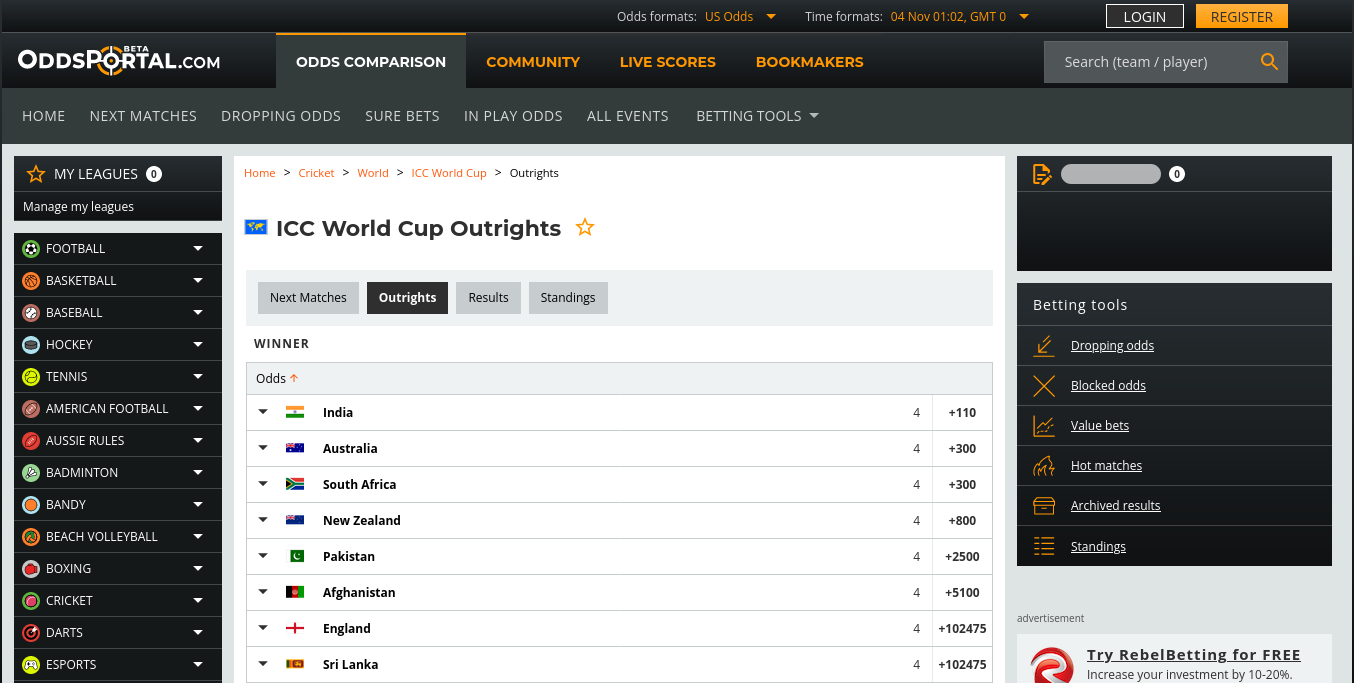
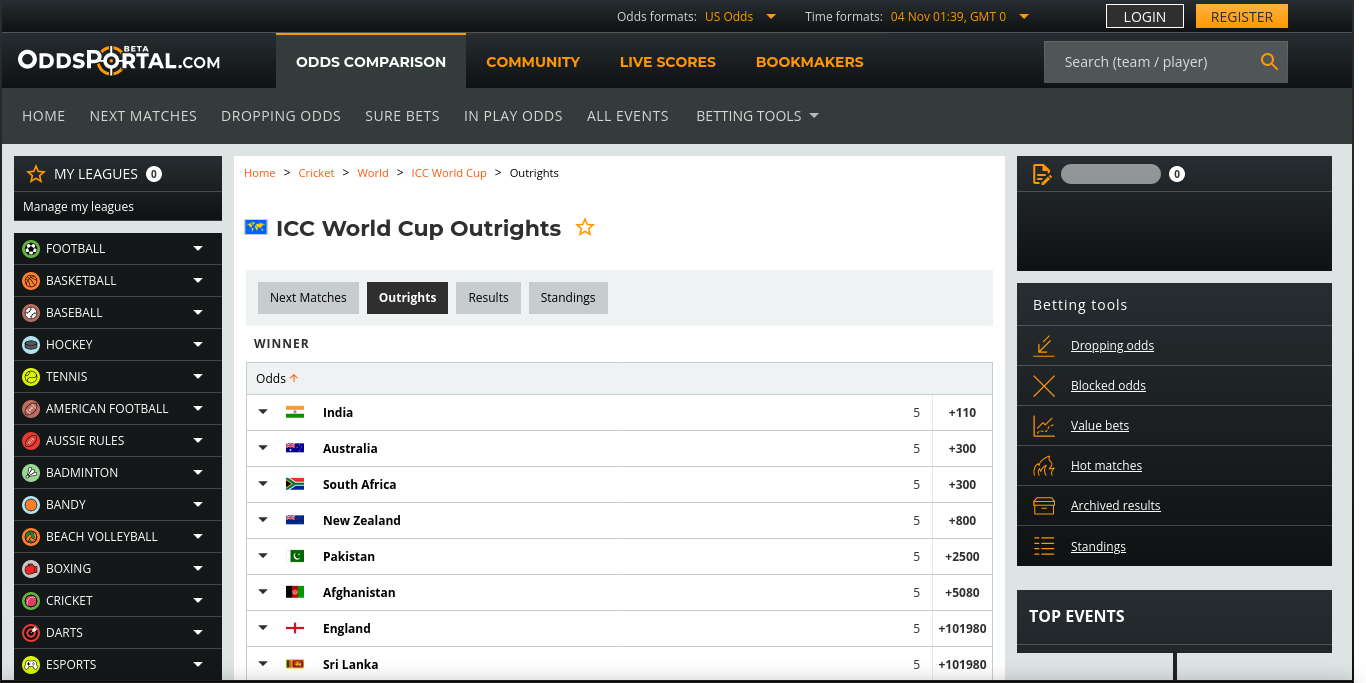
Update Data (Cron) Sat Nov  4 01:39:03 UTC 2023

Changed region(s): [[0.0, 0.8609, 0.9839, 1.0], [0.7687, 0.2152, 0.8609, 0.2767]]

diff --git a/src/nonview/data/TEAM1_ID_TO_TEAM2_ID_TO_ODDS_PAIR.js b/src/nonview/data/TEAM1_ID_TO_TEAM2_ID_TO_ODDS_PAIR.js
@@ -1,6 +1,6 @@
 // Auto Generated by UpdateTeam1IDToTeam2IDToOddsPair
 // https://www.oddsportal.com/cricket/world/icc-world-cup/
-// 2023-11-04 06:32:16 +0000
+// 2023-11-04 07:08:55 +0000
 
 import { TEAM } from "../core/Team.js";
 
@@ -9,12 +9,12 @@ export const TEAM1_ID_TO_TEAM2_ID_TO_ODDS_PAIR = {
     [TEAM.PAK.id]: [1.78, 2.00],
   },
   [TEAM.AUS.id]: {
-    [TEAM.ENG.id]: [1.61, 2.27],
+    [TEAM.ENG.id]: [1.62, 2.27],
   },
   [TEAM.IND.id]: {
     [TEAM.ZAF.id]: [1.53, 2.46],
   },
   [TEAM.LKA.id]: {
-    [TEAM.BGD.id]: [1.52, 2.48],
+    [TEAM.BGD.id]: [1.52, 2.49],
   },
 };

diff --git a/src/nonview/constants/VERSION.js b/src/nonview/constants/VERSION.js
@@ -1,4 +1,4 @@
 // Auto-generated by javascript_version.py
-export const VERSION_UT = 1699059744;
+export const VERSION_UT = 1699061943;
 export const VERSION_DATETIME = new Date(VERSION_UT * 1_000);
 export const LAST_COMMIT_MESSAGE = "Updated 📊Data";

diff --git a/src/nonview/data/ODI_ID_TO_WINNER.js b/src/nonview/data/ODI_ID_TO_WINNER.js
@@ -1,6 +1,6 @@
 // Auto Generated by UpdateODIIDToWinner
 // https://www.cricbuzz.com/cricket-series/6732/icc-cricket-world-cup-2023/matches
-// 2023-11-04 06:31:56 +0000
+// 2023-11-04 07:08:36 +0000
 
 import { TEAM } from "../core/Team.js";
 

diff --git a/src/nonview/data/POINTS_TABLE.js b/src/nonview/data/POINTS_TABLE.js
@@ -1,6 +1,6 @@
 // Auto Generated by UpdatePointsTable
 // https://www.cricketworldcup.com/standings
-// 2023-11-04 06:32:07 +0000
+// 2023-11-04 07:08:47 +0000
 
 import { TEAM } from "../core/Team.js";
 
